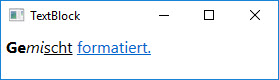
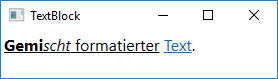
Typo.

diff --git a/03 Controls/02 Labels/README.md b/03 Controls/02 Labels/README.md
@@ -1,12 +1,12 @@
 # Labels
 
-Ein Label wird üblicherweise dazu verwendet, um TextBoxen mit einem Text zu kennzeichnen, damit der Benutzer weiss, was er in welche TextBox eingeben muss. Die _Focusable_-Property der TextBox ist dabei per Default _false_, wodurch es selbst nicht fokussierbar ist. 
+Ein Label wird üblicherweise dazu verwendet, um TextBoxen mit einem Text zu kennzeichnen, damit der Benutzer weiss, was er in welche TextBox eingeben muss. Die _Focusable_-Property des Labels ist dabei per Default _false_, wodurch es selbst nicht fokussierbar ist. 
 
 ## Einen Access-Key definieren
 
 Über ein Label kann ein Tastatur-Zugriffsschlüssel (auch als _Mnemonic_ oder _Access Key_ bezeichnet) definiert werden, indem seiner _Content_-Eigenschaft ein `String` zugewiesen wird und demjenigen Buchstaben des Strings, der als Zugriffsschlüssel dienen soll, ein Unterstrich vorangestellt wird. Drückt der Benutzer die {Alt}-Taste, wird der entsprechende Buchstabe unterstrichen anzeigt und weist den Benutzer so auf den hinterlegten Zugriffschlüssel hin. Klick der Benutzer zusätzlich den entsprechenden Buchstaben, wird der Fokus auf dasjenige UI-Element gelegt, das zum Label gehört. 
 
-Um ein UI-Element, das beim Betätigen des Access-Keys fokussiert weden soll, dem entsprechenden Label zuzuweisen, muss es der _Target_-Property des Lables zugewiesen werden. Dazu muss in XAML ein Data Binding eingerichtet werden. 
+Um das UI-Element, das beim Betätigen des Access-Keys fokussiert werden soll, dem entsprechenden Label zuzuweisen, muss es der _Target_-Property des Lables zugewiesen werden. Dazu muss in XAML ein Data Binding eingerichtet werden. 
 
 ```xml
 <Label Content="_Vorname" Target="{Binding ElementName=tbVorname}" />
@@ -22,4 +22,4 @@ lbl.Content = "_Vorname";
 lbl.Target = tbVorname; 
 ```
 
-Obwohl ein Label einen beliebigen INhalt haben kann, ist es nur dann wirklich nützlich, wenn es einen String mit einem Zugriffsschlüssel enthält. 
+Obwohl ein Label einen beliebigen Inhalt haben kann, ist es nur dann wirklich nützlich, wenn es einen String mit einem Zugriffsschlüssel enthält. 

diff --git a/03 Controls/06 TextBox und TextBlock/01 TextBox/README.md b/03 Controls/06 TextBox und TextBlock/01 TextBox/README.md
@@ -4,11 +4,11 @@ Die Klasse `TextBox` erbt von der Klasse `TextBoxBase`, die wiederum direkt von 
 
 ## Text eingeben und editieren 
 
-Nebst der wohl wichtigsten Eigenschaft _Text_, die den vom Benutzer eingegebenen Text entgegennimmt, bietet die TextBox viele nützliche Properties zum Editieren von Text.  
+Nebst der wohl wichtigsten Eigenschaft _Text_, die den vom Benutzer eingegebenen Text entgegennimmt, bietet die TextBox viele weitere nützliche Properties.  
 
 * **_TextWrapping_** - legt fest, wie der Text innerhalb der TextBox umbrochen werden soll (mögliche Werte: _NoWrap_, _Wrap_, _WrapWithOverflow_).
 * **_AcceptsReturn_** - legt fest, ob der Benutzer mit der {ENTER}-Taste ein Zeilenumbruch einfügen kann.
-* **_AcceptsTab_** - - legt fest, ob der Benutzer mit der {TAB}-Taste ein Tabstoppzeichen einfügen kann.
+* **_AcceptsTab_** - legt fest, ob der Benutzer mit der {TAB}-Taste ein Tabstoppzeichen einfügen kann.
 * **_CanUndo_** - legt fest, ob der Benutzer die vorhergehende Eingabe rückgängig machen kann.
 * **_IsUndoEnabled_** - legt fest, ob der Undo-Mechanismus eingeschaltet ist oder nicht. 
 * **_UndoLimit_**  - legt maximale Grösse des Undo-Stacks fest. 
@@ -30,7 +30,7 @@ tBox.SelectionLength = 12;
 
 ![Bild 1](res/01.jpg)
 
-Das gleiche lässt sich freilich auch durch Aufruf der Methode _Select_ erreichen: 
+Das Gleiche lässt sich freilich auch durch Aufruf der Methode _Select_ erreichen: 
 
 ```csharp
 tBox.Focus();
@@ -38,7 +38,7 @@ tBox.Select(4, 12);
 ```
 ## Rechtschreibprüfung
 
-Mit der Attached Property _SpellCheck.IsEnabled_ kann für die TextBox die Rechtschreibprüfung aktiviert werden. Falsch geschriebene Wörter werden dann rot unterstrichen und über das Kontextmenu der Maus werden Korrekturen vorgeschlagen. 
+Mit der Attached Property _SpellCheck.IsEnabled_ kann für eine TextBox die Rechtschreibprüfung aktiviert werden. Falsch geschriebene Wörter werden dann rot unterstrichen und über das Kontextmenu der Maus werden Korrekturen vorgeschlagen. 
 
 ```xml
  <TextBox SpellCheck.IsEnabled="True">Das Wort falch ist falsch.</TextBox>

diff --git a/03 Controls/04 ScrollViewer/README.md b/03 Controls/04 ScrollViewer/README.md
@@ -10,7 +10,9 @@ Die wichtisten Properties der Klasse `ScrollViewer` sind _HorizontalScrollBarVis
 
 * **Hidden**:  Die ScrollBar wird nicht anzeigt. Allerdings läuft der Inhalt des dem ScrollViewer zugewiesenen Elements  über die verfügbare Anzeige-Fläche hinaus, da die _Width_- und die _Height_-Property des Inhalts nicht wie bei _Disabled_ der zur Verfügung stehenden Anzeige-Fläche angepasst wird.  
 
-* **Visible**: Die ScrollBlar wird immer angezeigt, auch dann, wenn die verfügbare Anzeige-Fläche gross genug ist, um den Inhalt ohne scrollen zu müssen anzeigen zu können. 
+* **Visible**: Die ScrollBlar wird immer angezeigt, auch dann, wenn die verfügbare Anzeige-Fläche eigentlich gross genug wäre, um den Inhalt ohne Scrolling anzeigen zu können. 
+
+Im folgenden Beispiel wird die vertikale Scrollbar immer angezeigt. Die horizontale Scrollbar dagegen wird nie angezeigt. Durch den Wert _Disabled_ für _HorizontalScrollBarVisibility_ wird erreicht, dass die Width-Property des dem ScrollViewer zugewiesenen StackPanels automatisch auf die Breite der zur Verfügung stehenden Fläche gesetzt wird. Den TextBlock-Objekten steht somit auch nur die sichtbare Breite zur Verfügung, wodurch ihr Text umbrochen wird. 
 
 ```xml
 <ScrollViewer VerticalScrollBarVisibility="Visible" HorizontalScrollBarVisibility="Disabled">
@@ -24,9 +26,5 @@ Die wichtisten Properties der Klasse `ScrollViewer` sind _HorizontalScrollBarVis
         </StackPanel>
     </ScrollViewer>
 ```  
-
-Im diesem Beispiel wird die vertikale Scrollbar immer angezeigt  während die horizontale Scrollbar nie angezeigt wird. Durch den Wert _Disabled_ für _HorizontalScrollBarVisibility_ wird erreicht, dass die Width-Property des dem ScrollViewer zugewiesenen StackPanels automatisch auf die Breite der zur Verfügung stehenden Fläche gesetzt wird. Den TextBlock-Objekten steht somit auch nur die sichtbare Breite zur Verfügung, wodurch ihr Text umbrochen wird. 
-
-
 
 ![Bild 1](res/01.jpg)

diff --git a/03 Controls/06 TextBox und TextBlock/02 TextBlock/README.md b/03 Controls/06 TextBox und TextBlock/02 TextBlock/README.md
@@ -37,14 +37,6 @@ Das folgende Beispiel zeigt die Verwendung der Spans `Bold`, `Italic`, `Underlin
 
 ![Bild 2](res/02.jpg)
 
-Aufgrund der Tatsache, dass die `Span`-Klasse selber eine `Inlines`-Property besitzt, können Span-Elemente beliebig verschachtelt werden. 
-
-```xml
-<Bold>Ge</Bold><Italic>mi</Italic><Underline>scht</Underline> <Hyperlink>formatiert.</Hyperlink>
-```
-
-![Bild 3](res/03.jpg)
-
 ### Das Inline-Element "Run"
 
 Um die im obigen Beispiel in XAML definierte Textausgabe mit C# zu erstellen, muss jedes `Span` in ein `Run`-Objekt gepackt werden. Objekte vom Typ `Run` sind die einzigen Inline-Objekte, welche den eigentlichen Text enthalten können. 
@@ -58,6 +50,16 @@ tBlock.Inlines.Add(new Underline(new Run("Unterstrichen.")));
 tBlock.Inlines.Add(new Run(" "));
 tBlock.Inlines.Add(new Hyperlink(new Run("Hyperlink.")));
 ```
+
+### Verschacheln von Span-Elementen
+
+Aufgrund der Tatsache, dass die `Span`-Klasse selber eine `Inlines`-Property besitzt, können Span-Elemente beliebig verschachtelt werden. 
+
+```xml
+<Underline><Bold>Gemi</Bold><Italic>scht</Italic> formatierter</Underline> <Hyperlink>Text</Hyperlink>.
+```
+
+![Bild 3](res/03.jpg)
 
  ## Formatierung mit den Properties der TextElement-Klasse
 
@@ -89,7 +91,7 @@ Diese _FontXXX_-Properties sind WPF-intern als Attached Properties implementiert
     <TextBlock>Formatierter Text.</TextBlock>
 </StackPanel>
 ```
-### InlineUIContainer
+## InlineUIContainer
 
 Mit der Klasse `InlineUIContainer` lassen sich beliebige UIElemente (z.B. Images) in einen Text integrieren.
 

diff --git a/03 Controls/03 ToolTips/README.md b/03 Controls/03 ToolTips/README.md
@@ -29,4 +29,10 @@ Anstelle eines Strings lassen sich der _ToolTip_-Property aber auch komplexe Obj
 
 ![Bild 2](res/02.jpg)
 
-Die `ToolTip`-Klasse bietet viele weitere Eigenschaften. Beispielsweise Eigenschaften zum Positionieren des ToolTips: _HorizontalOffset_, _VerticalOffset_, _Placement_. Mit _IsOpen_ kann kontrolliert werden, ob der ToolTip anzeigt wird: diese Eigenschaft kann auf _false_ gesetzt werden, um einen ToolTip "manuell" zu schliessen. Über die Eigenschaft _HasDropShadow_ kann ein Schatten angezeigt werden. Und überwacht werden kann der ToolTip mit den beiden Events _Opened_ und _Closed_.  
+Die `ToolTip`-Klasse bietet viele weitere Eigenschaften, z.B.:  
+
+* Positionieren des ToolTips: _HorizontalOffset_, _VerticalOffset_, _Placement_. 
+* Mit _IsOpen_ kann kontrolliert werden, ob der ToolTip anzeigt wird. Um einen ToolTip "manuell" zu schliessen, kann diese Eigenschaft auf _false_ gesetzt werden. 
+* Mittels _HasDropShadow_ kann ein Schatten angezeigt werden. 
+
+Überwacht werden kann der ToolTip mit den beiden Events _Opened_ und _Closed_.  
